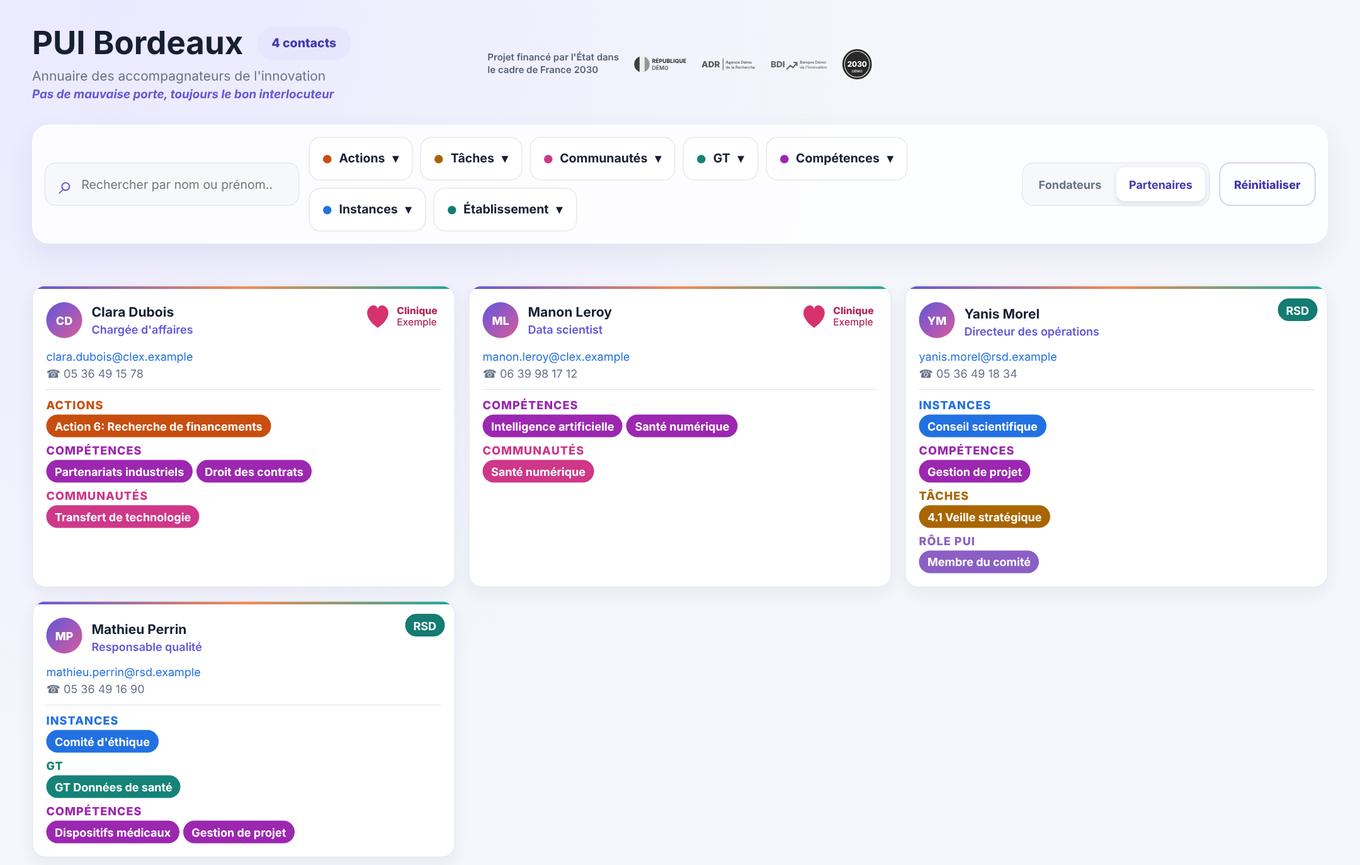
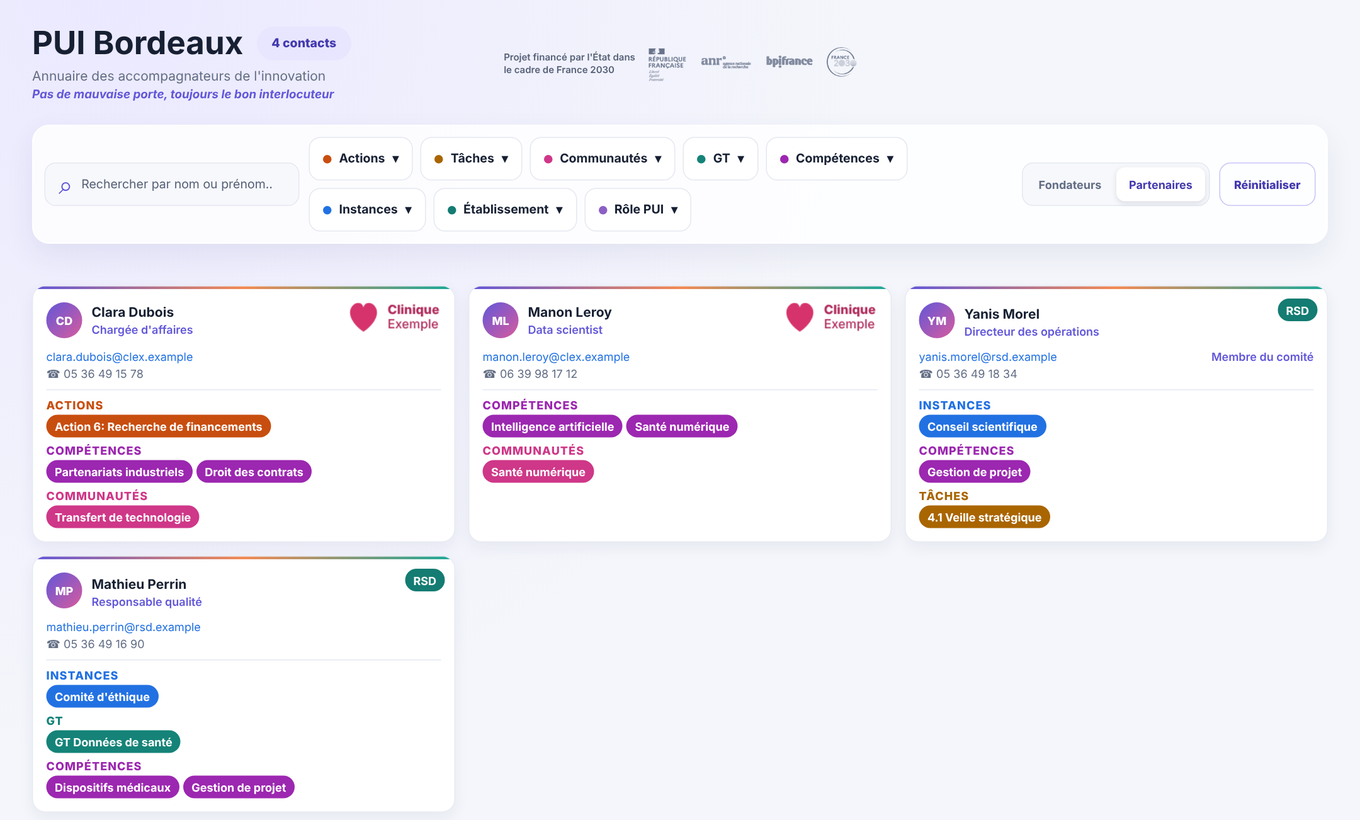
Documentation : captures régénérées sur la 1.28.x, légendes à jour, ligne de version masquée sur le bandeau
Claude-Session: https://claude.ai/code/session_01V8eFYu72vJnSWz9EzDE4xP

diff --git a/docs/developpeurs.md b/docs/developpeurs.md
@@ -4,7 +4,7 @@ Cette page explique comment le widget est construit et comment le modifier sans 
 
 Pages liées : [README](../README.md) (présentation et installation), [guide utilisateur](utilisateurs.md), [sécurité](securite.md), [maintenance](maintenance.md).
 
-> **Cette page décrit la version 1.28.3** : le widget lit la table `BDD` (1.8.0), range les compétences par domaine (un filtre « Domaines » en 1.9.0, intégré depuis au menu Compétences, 1.13.0), s'adapte à la largeur de son cadre (1.9.1), n'affiche que les personnes qui ont accepté d'apparaître (1.10.0), laisse la personne connectée choisir d'apparaître ou non, « Ma présence » (1.11.0), puis modifier sa fiche après une relecture de la carte avant et après (1.12.0), puis affiche les logos des établissements et des fondateurs, lus comme des pièces jointes du document, dans un en-tête et un bandeau du bas remaniés (1.14.0 ; depuis la 1.21.0, les financeurs sont deux images fixes du dépôt). Depuis la 1.15.0, un administrateur allume un « mode admin » qui lui permet de modifier la fiche de toute personne affichée, adresse e-mail et établissement compris, dans une fenêtre qui suit la maquette validée. Depuis la 1.16.0, le menu Tâches range les tâches par action d'après leur numéro. Depuis la 1.17.0, un **responsable d'établissement** modifie la fiche de son établissement (logo, nom complet, visibilité, liste des responsables) dans une autre fenêtre de la maquette, et le widget **envoie lui-même** le fichier du logo à Grist. Depuis la 1.17.1, tout le texte des cartes fait 12 px au moins et les pastilles 24 px de haut ; depuis la 1.17.2, dans un cadre étroit, le texte du bandeau « Ma présence » garde 200 px au moins et l'interrupteur passe dessous. Depuis la 1.19.0, la **photo de profil** d'une personne, une pièce jointe de la colonne `Avatar` de `BDD`, remplace ses initiales sur les cartes : elle l'ajoute, la change ou la retire dans la fenêtre de modification de sa fiche, et le widget envoie de la même façon le fichier à Grist. Depuis la 1.18.0, une personne dont l'adresse ne figure dans aucune fiche **crée elle-même sa fiche** (une ligne ajoutée à `BDD`, après une relecture) et peut choisir l'adresse e-mail que sa carte affiche (`email_affiche`, colonne facultative). Depuis la 1.20.0, le widget **crée lui-même la table-sonde** `Annuaire_Sonde` quand elle manque : c'est la seule table qu'il crée. Depuis la 1.22.0, les filtres, les cartes et les fenêtres ne lisent que les libellés « corrigés » ; depuis la 1.24.0, un huitième filtre, « Rôle PUI » ; depuis la 1.25.0, la création se publie d'un clic (« Publier ma fiche ») et chaque liste de choix a une recherche, que la 1.28.0 range dans une liste déroulante pour l'établissement et le rôle. Depuis la 1.26.0, le rôle d'une personne dans une tâche (`Taches_role`, colonne facultative) s'écrit au survol de l'étiquette de la tâche. Depuis la 1.27.0, la colonne `perimetre` n'est plus lue. Depuis la 1.28.1, chaque logo est chargé une seule fois, à l'abri des redessins de l'annuaire, et la 1.28.2 fait dire à la console pourquoi Grist refuse un logo (le plus souvent une règle d'accès). Depuis la 1.28.3, l'audit exhaustif relancé le 19 octobre 2026 corrige l'annuaire par lots (le CHANGELOG les décrit) : le premier fait qu'un libellé comme « constructor » ne casse plus rien (`ownValue()`). Ces modifications s'appliquent directement : il n'y a ni validation par un administrateur ni historique tenu par le widget. Ce qui n'est pas encore là est résumé dans [Chantiers en cours](#chantiers-en-cours).
+> **Cette page décrit la version 1.28.4** : le widget lit la table `BDD` (1.8.0), range les compétences par domaine (un filtre « Domaines » en 1.9.0, intégré depuis au menu Compétences, 1.13.0), s'adapte à la largeur de son cadre (1.9.1), n'affiche que les personnes qui ont accepté d'apparaître (1.10.0), laisse la personne connectée choisir d'apparaître ou non, « Ma présence » (1.11.0), puis modifier sa fiche après une relecture de la carte avant et après (1.12.0), puis affiche les logos des établissements et des fondateurs, lus comme des pièces jointes du document, dans un en-tête et un bandeau du bas remaniés (1.14.0 ; depuis la 1.21.0, les financeurs sont deux images fixes du dépôt). Depuis la 1.15.0, un administrateur allume un « mode admin » qui lui permet de modifier la fiche de toute personne affichée, adresse e-mail et établissement compris, dans une fenêtre qui suit la maquette validée. Depuis la 1.16.0, le menu Tâches range les tâches par action d'après leur numéro. Depuis la 1.17.0, un **responsable d'établissement** modifie la fiche de son établissement (logo, nom complet, visibilité, liste des responsables) dans une autre fenêtre de la maquette, et le widget **envoie lui-même** le fichier du logo à Grist. Depuis la 1.17.1, tout le texte des cartes fait 12 px au moins et les pastilles 24 px de haut ; depuis la 1.17.2, dans un cadre étroit, le texte du bandeau « Ma présence » garde 200 px au moins et l'interrupteur passe dessous. Depuis la 1.19.0, la **photo de profil** d'une personne, une pièce jointe de la colonne `Avatar` de `BDD`, remplace ses initiales sur les cartes : elle l'ajoute, la change ou la retire dans la fenêtre de modification de sa fiche, et le widget envoie de la même façon le fichier à Grist. Depuis la 1.18.0, une personne dont l'adresse ne figure dans aucune fiche **crée elle-même sa fiche** (une ligne ajoutée à `BDD`, après une relecture) et peut choisir l'adresse e-mail que sa carte affiche (`email_affiche`, colonne facultative). Depuis la 1.20.0, le widget **crée lui-même la table-sonde** `Annuaire_Sonde` quand elle manque : c'est la seule table qu'il crée. Depuis la 1.22.0, les filtres, les cartes et les fenêtres ne lisent que les libellés « corrigés » ; depuis la 1.24.0, un huitième filtre, « Rôle PUI » ; depuis la 1.25.0, la création se publie d'un clic (« Publier ma fiche ») et chaque liste de choix a une recherche, que la 1.28.0 range dans une liste déroulante pour l'établissement et le rôle. Depuis la 1.26.0, le rôle d'une personne dans une tâche (`Taches_role`, colonne facultative) s'écrit au survol de l'étiquette de la tâche. Depuis la 1.27.0, la colonne `perimetre` n'est plus lue. Depuis la 1.28.1, chaque logo est chargé une seule fois, à l'abri des redessins de l'annuaire, et la 1.28.2 fait dire à la console pourquoi Grist refuse un logo (le plus souvent une règle d'accès). Depuis la 1.28.3, l'audit exhaustif relancé le 19 octobre 2026 corrige l'annuaire par lots (le CHANGELOG les décrit) : le premier fait qu'un libellé comme « constructor » ne casse plus rien (`ownValue()`). La 1.28.4 donne au dépôt une licence (GNU GPL version 3 ou ultérieure, fichier `LICENSE`) et une politique de sécurité (`SECURITY.md`), sans changer le code. Ces modifications s'appliquent directement : il n'y a ni validation par un administrateur ni historique tenu par le widget. Ce qui n'est pas encore là est résumé dans [Chantiers en cours](#chantiers-en-cours).
 
 ## Sommaire
 
@@ -63,7 +63,7 @@ flowchart LR
 | `grist-plugin-api.js` | API de widget de Grist. `index.html` la charge depuis `docs.getgrist.com`, sans version figée | `index.html` |
 | GitHub Actions | Exécute `node --test` à chaque pull request et à chaque push sur `main` | `.github/workflows/tests.yml` |
 
-Ce que le widget fait, dans la version 1.28.3 :
+Ce que le widget fait, dans la version 1.28.4 :
 
 - il **lit** les tables du document Grist : neuf lectures `fetchTable` par chargement de l'annuaire (`BDD` et ses huit tables de référence) et, pour savoir qui est connecté, la liste des tables (`listTables`) puis la table-sonde. Quand une personne prépare la relecture d'une modification ou de la création de sa fiche, il relit aussi `BDD` (puis une dernière fois juste avant d'écrire) et lit les tables de métadonnées `_grist_Tables` et `_grist_Tables_column` (`schema.js`). Quand un responsable ouvre la fiche de son établissement, il relit `Etablissements` et `ACL` (`etablissement-save.js`). Pour afficher les logos et les photos de profil, il demande à Grist un **jeton d'accès en lecture seule** (`getAccessToken`, dans `attachments.js`) : ce sont les images, demandées par le navigateur, qui le portent (voir [Habillage](#habillage--logos-et-pièces-jointes)) ;
 - il **écrit** dans cinq cas seulement, toujours à l'initiative d'un chargement ou d'un clic, jamais en tâche de fond :
@@ -938,6 +938,7 @@ npx playwright install chromium         # ou CHROMIUM_PATH=/chemin/vers/chromium
 | `tests/responsive.test.mjs` | Le même `index.html` de 280 à 1920px de large, sur un jeu de données chargé (`tests/fixtures-responsive.mjs`) : pas de défilement horizontal, texte contenu dans les cartes, colonnes, barre d'outils, menus de filtres dans le cadre (dont les menus Compétences et Tâches dépliés, et un libellé de compétence ou d'action au nom très long), cibles tactiles, taille du texte des cartes (12 px au moins à toute largeur), pastilles de 24 px de haut, petites cibles isolées |
 | `tests/accessibility.test.mjs` | Le clavier et le lecteur d'écran : le champ de recherche nommé (et son nom reprend le texte visible), aucun contrôle sans nom dans l'arbre d'accessibilité, parcours complet à la tabulation (anneau visible, plein, de 2 px et de 3:1 au moins, page puis menu ouvert), pastilles, titres de groupe et lien e-mail d'une carte mesurés sur la page rendue (4,5:1 au moins), piste et curseur de l'interrupteur de présence mesurés eux aussi (3:1 au moins, éteint et allumé), en contraste forcé émulé (bordure, curseur distinct de la piste, états différents, curseur centré) et sans transition quand on réduit les animations ; sans navigateur, les rapports de contraste de référence, la garde sur `outline: 0` dans les feuilles de style, le contraste de chaque couleur de catégorie et du lien e-mail, celui de la piste et du curseur lus dans `style.css`, le gris des textes secondaires sur chacun des fonds clairs où il se pose, la case à cocher dessinée par la feuille de style et la garde sur `index.html` (aucun `aria-label` sur un élément sans rôle). Sur la carte de la personne connectée : « Votre fiche » et les boutons « Modifier » (le sien et celui de son établissement) à 12 px, ces boutons à 24 px de haut, le lien e-mail à l'écart. Les contrastes passent par `tests/support/contrast.mjs`, les tailles par `tests/support/card-metrics.mjs` |
 | `tests/docs.test.mjs` | La documentation ne se périme pas : liens, noms de fonctions cités, jeu de données fictif et personnes de démonstration, serveur de démonstration, schéma des imports, préfixes de la console, messages du guide cités, affirmations de sécurité (aucune requête réseau hors l'envoi d'un logo, dont les protections sont vérifiées ; aucun stockage ; méthodes de l'API Grist employées) |
+| `tests/license.test.mjs` | La licence et la politique de sécurité : `LICENSE` est le texte officiel de la GNU GPL version 3 (empreinte vérifiée), le README la déclare et renvoie vers `LICENSE`, `SECURITY.md` dit où signaler un problème sans issue publique ni adresse personnelle |
 
 - **Version de Node.** Le dépôt n'a pas de `package.json` : Node ne reconnaît les modules ES écrits en `.js` que grâce à la détection automatique de la syntaxe, activée par défaut depuis Node 20.19 et 22.7. En dessous (Node 18, 21, 22.6…), les tests échouent avec « Named export … not found » : c'est l'environnement qui est en cause, pas le code. Le serveur de démonstration, en `.mjs`, démarre dès Node 18.
 - Les tests unitaires n'ont aucune dépendance. `tests/e2e.test.mjs`, `tests/e2e-taches.test.mjs`, `tests/e2e-task-roles.test.mjs`, `tests/e2e-profile.test.mjs`, `tests/e2e-etablissement.test.mjs`, `tests/e2e-avatar.test.mjs`, `tests/e2e-upload-cors.test.mjs`, `tests/responsive.test.mjs`, `tests/branding-e2e.test.mjs`, `tests/logos-preload-e2e.test.mjs`, `tests/branding-layout.test.mjs` et, pour onze de ses dix-neuf tests, `tests/accessibility.test.mjs` ont besoin de Playwright et de Chromium (`tests/support/browser.mjs` sert à tous sauf `tests/responsive.test.mjs` et `tests/branding-layout.test.mjs`, qui lancent Chromium eux-mêmes) ; sans eux leurs scénarios sont ignorés et `node --test` reste vert. La CI définit `REQUIRE_E2E=1` : un navigateur absent y est un échec, pas un « tout vert » sur des tests ignorés.
@@ -987,7 +988,7 @@ node docs/demo/capturer.mjs                    # réécrit docs/images/*.png
 Règles :
 
 - **Rien de réel dans le dépôt.** Les personnes, les établissements et leurs logos (des dessins inventés) sont inventés, les adresses se terminent par `.example` (domaine réservé à la documentation, RFC 2606) et les numéros appartiennent au plan réservé à la fiction (`05 36 49 xx xx`, `06 39 98 xx xx`, décision ARCEP n° 2018-0881). `tests/docs.test.mjs` le vérifie.
-- Après toute modification de l'interface, relancer `docs/demo/capturer.mjs`, regarder les images et les committer avec le changement.
+- Après toute modification de l'interface, relancer `docs/demo/capturer.mjs`, regarder les images et les committer avec le changement. Les captures ne portent aucun numéro de version : la ligne « Version … » du bas de page est masquée sur celle du bandeau, pour qu'une capture ne se périme pas à chaque version.
 - Deux captures dépendent de la hauteur des cartes (texte de 12 px, 1.17.1). `docs/images/carte-anatomie.png` demande une fenêtre de 3 600 px : la carte de Camille Rousseau est loin dans la liste (cartes triées par nom) et ses repères sont fixés à l'écran. `docs/images/modifier-fiche-relecture.png` lève le plafond de 900 px de la fenêtre (`dialogs.css`) le temps de la capture, parce que la relecture le dépasse : sur un écran réel, son corps défile. Si une capture échoue avec « Clipped area is either empty or outside the resulting image », la fenêtre est trop basse pour la zone demandée.
 - Quand la structure Grist change, adapter `docs/demo/donnees-fictives.mjs` : `tests/docs.test.mjs` échoue tant que le jeu fictif n'est pas lu sans erreur par le vrai `loadDirectory()`.
 - Dans le jeu fictif, tout le monde a accepté d'apparaître (`Accepte_apparaitre`) sauf une personne qui a refusé : seuls les établissements décident des autres. `PERSONNES_DEMO` désigne une personne qui apparaît, une d'un établissement partenaire, une qui a refusé, une qui a accepté mais reste masquée (son établissement n'est pas validé), un administrateur et une responsable d'établissement (Léa Fontaine, du CHD) : ce sont elles que photographient les captures « Ma présence » (les quatre captures de la modification d'une fiche, le bouton, le formulaire, la relecture et la confirmation, sont celles de la personne qui apparaît, les trois dernières montrant la même modification ; les deux captures du mode admin sont celles de l'administrateur, et celle de la fiche d'un établissement celle de la responsable), et `tests/docs.test.mjs` vérifie que le bandeau dit pour chacune ce que le guide annonce.
@@ -1043,7 +1044,7 @@ Règles :
 
 ## Chantiers en cours
 
-Au 19 octobre 2026, `main` est en version 1.28.3 (les 1.28.3 et suivantes sont les lots de l'audit exhaustif relancé le 19 octobre 2026, la 1.28.2 fait dire à la console pourquoi Grist refuse un logo, la 1.28.1 charge chaque logo une seule fois, la 1.28.0 est la liste déroulante à recherche, les 1.27.0 à 1.27.3 retirent `perimetre` de l'affichage et reprennent le rôle PUI, les logos des cartes et le menu Établissement, la 1.26.0 est le rôle dans une tâche, la 1.25.0 « Publier ma fiche », la 1.24.0 le filtre Rôle PUI, la 1.22.0 les libellés corrigés seuls, les 1.21.0 à 1.21.7 les financeurs fixes et des corrections (envoi d'un fichier, sonde, logos), la 1.20.0 la table-sonde créée par le widget, la 1.19.0 la photo de profil, la 1.18.0 la fiche créée par la personne et l'e-mail affiché, la 1.17.2 range le bandeau « Ma présence » dans un cadre étroit, la 1.17.1 donne au texte des cartes 12 px au moins, la 1.17.0 est la fiche d'un établissement ; la 1.16.0 range les tâches par action, la 1.16.1 trie les cartes par nom, la 1.16.2 fonce les pastilles et la 1.16.3 rend l'interrupteur de présence accessible ; la 1.15.0 est le mode admin, la 1.14.1 le premier des six « gains rapides » de l'audit UI/UX, un par version, dont la 1.17.2 est le dernier ; la 1.14.0 est l'habillage, la 1.13.0 le menu Compétences par domaine). Cette documentation la décrit et sera mise à jour à chaque fusion.
+Au 19 octobre 2026, `main` est en version 1.28.4 (les 1.28.3 et suivantes sont les lots de l'audit exhaustif relancé le 19 octobre 2026, dont la 1.28.4, la licence ; la 1.28.2 fait dire à la console pourquoi Grist refuse un logo, la 1.28.1 charge chaque logo une seule fois, la 1.28.0 est la liste déroulante à recherche, les 1.27.0 à 1.27.3 retirent `perimetre` de l'affichage et reprennent le rôle PUI, les logos des cartes et le menu Établissement, la 1.26.0 est le rôle dans une tâche, la 1.25.0 « Publier ma fiche », la 1.24.0 le filtre Rôle PUI, la 1.22.0 les libellés corrigés seuls, les 1.21.0 à 1.21.7 les financeurs fixes et des corrections (envoi d'un fichier, sonde, logos), la 1.20.0 la table-sonde créée par le widget, la 1.19.0 la photo de profil, la 1.18.0 la fiche créée par la personne et l'e-mail affiché, la 1.17.2 range le bandeau « Ma présence » dans un cadre étroit, la 1.17.1 donne au texte des cartes 12 px au moins, la 1.17.0 est la fiche d'un établissement ; la 1.16.0 range les tâches par action, la 1.16.1 trie les cartes par nom, la 1.16.2 fonce les pastilles et la 1.16.3 rend l'interrupteur de présence accessible ; la 1.15.0 est le mode admin, la 1.14.1 le premier des six « gains rapides » de l'audit UI/UX, un par version, dont la 1.17.2 est le dernier ; la 1.14.0 est l'habillage, la 1.13.0 le menu Compétences par domaine). Cette documentation la décrit et sera mise à jour à chaque fusion.
 
 **Déjà fusionné**
 
@@ -1067,7 +1068,7 @@ Au 19 octobre 2026, `main` est en version 1.28.3 (les 1.28.3 et suivantes sont l
 17. **Un affichage sans `perimetre`, des listes à recherche** (1.25.0, 1.27.0, 1.27.3, 1.28.0) : le widget ne lit ni n'écrit plus `perimetre`, le menu Établissement ne propose que les établissements qui peuvent s'afficher (selon les interrupteurs Fondateurs et Partenaires), et l'établissement et le rôle des fenêtres sont des listes déroulantes à recherche. Voir [Règles d'affichage](#règles-daffichage) et [Accessibilité](#accessibilité).
 18. **Logos : toujours affichés, chargés une seule fois, un refus expliqué** (1.27.2, 1.28.1, 1.28.2) : le logo d'une carte ne dépend plus de la lecture de ses pixels, chaque logo est chargé à part une seule fois, et la console dit que Grist le refuse le plus souvent par une règle d'accès, avec le remède. Voir [Les images](#les-images-branding-uijs).
 
-**Pas encore dans la 1.28.3**
+**Pas encore dans la 1.28.4**
 
 Ce qui suit n'est pas dans le code, et aucune date n'est promise.
 

diff --git a/docs/securite.md b/docs/securite.md
@@ -1,6 +1,6 @@
 # Sécurité et confidentialité
 
-Cette page répond aux questions qu'on se pose avant de mettre l'annuaire entre les mains d'un public : qu'est-ce que le widget peut lire et faire, où vont les données, quels sont les risques restants et comment les réduire. Elle décrit la **version 1.28.3**. Le widget écrit dans le document depuis la 1.11.0 (la table-sonde, le choix de présence) ; la 1.12.0 y ajoute la **modification d'une fiche**, directe, sans validation par un administrateur et sans historique tenu par le widget ; la 1.14.0 ajoute l'**affichage des logos**, des pièces jointes du document que le navigateur télécharge chez Grist avec un jeton d'accès en lecture seule (voir [Les logos et le jeton d'accès](#les-logos-et-le-jeton-daccès-aux-pièces-jointes)) ; la 1.15.0 donne aux administrateurs un **mode admin**, qui leur permet de changer aussi l'**e-mail** et l'**établissement** d'une autre personne ; la 1.16.0, qui range les tâches par action, ne change ni ce que le widget lit ni ce qu'il écrit ; la 1.17.0 donne aux **responsables d'un établissement** la **fiche de leur établissement** : ils en changent le nom, la visibilité, la liste des responsables (des lignes de la table `ACL`) et le **logo**, que le widget **envoie lui-même à Grist** avec un jeton d'accès en écriture, la seule requête réseau que son code émet (voir [L'envoi d'un fichier et le jeton en écriture](#lenvoi-dun-fichier-et-le-jeton-en-écriture)) ; les 1.17.1 et 1.17.2 ne changent que la mise en page, ni ce que le widget lit ni ce qu'il écrit ; la 1.19.0 ajoute la **photo de profil** : chaque personne ajoute, remplace ou retire sa photo (colonne `Avatar` de `BDD`), que le widget redessine puis envoie à Grist **par le même envoi et le même jeton en écriture que le logo**, ce qui élargit ce jeton à **toute personne qui valide une photo**, pas seulement aux responsables d'établissement. Les versions 1.18.0 à 1.28.2 ajoutent deux écritures : une personne que l'annuaire reconnaît mais qui n'a pas de fiche la **crée** elle-même (1.18.0 : une ligne ajoutée à `BDD`, à l'adresse de son compte), et le widget **crée la table-sonde** `Annuaire_Sonde` quand elle manque (1.20.0 : la seule table qu'il crée). Côté lecture et réseau, elles retirent la lecture d'une table `Financeurs` (1.21.0 : deux images fixes du widget la remplacent) et le recours à `perimetre` (1.27.0), lisent le rôle de la personne dans une tâche (1.26.0 : colonne facultative `Taches_role`), ajoutent à l'envoi d'un fichier l'en-tête `X-Requested-With` que Grist exige (1.21.5) et redemandent chaque logo à Grist d'une autre manière pour le fiabiliser (1.27.2 et 1.28.1, voir [Les logos et le jeton d'accès](#les-logos-et-le-jeton-daccès-aux-pièces-jointes)) ; les autres changements (filtres, listes déroulantes, mise en page) ne touchent ni les tables que le widget lit ni ce qu'il écrit. Plus que jamais, seules les règles d'accès de Grist protègent vraiment les données.
+Cette page répond aux questions qu'on se pose avant de mettre l'annuaire entre les mains d'un public : qu'est-ce que le widget peut lire et faire, où vont les données, quels sont les risques restants et comment les réduire. Elle décrit la **version 1.28.4**. Le widget écrit dans le document depuis la 1.11.0 (la table-sonde, le choix de présence) ; la 1.12.0 y ajoute la **modification d'une fiche**, directe, sans validation par un administrateur et sans historique tenu par le widget ; la 1.14.0 ajoute l'**affichage des logos**, des pièces jointes du document que le navigateur télécharge chez Grist avec un jeton d'accès en lecture seule (voir [Les logos et le jeton d'accès](#les-logos-et-le-jeton-daccès-aux-pièces-jointes)) ; la 1.15.0 donne aux administrateurs un **mode admin**, qui leur permet de changer aussi l'**e-mail** et l'**établissement** d'une autre personne ; la 1.16.0, qui range les tâches par action, ne change ni ce que le widget lit ni ce qu'il écrit ; la 1.17.0 donne aux **responsables d'un établissement** la **fiche de leur établissement** : ils en changent le nom, la visibilité, la liste des responsables (des lignes de la table `ACL`) et le **logo**, que le widget **envoie lui-même à Grist** avec un jeton d'accès en écriture, la seule requête réseau que son code émet (voir [L'envoi d'un fichier et le jeton en écriture](#lenvoi-dun-fichier-et-le-jeton-en-écriture)) ; les 1.17.1 et 1.17.2 ne changent que la mise en page, ni ce que le widget lit ni ce qu'il écrit ; la 1.19.0 ajoute la **photo de profil** : chaque personne ajoute, remplace ou retire sa photo (colonne `Avatar` de `BDD`), que le widget redessine puis envoie à Grist **par le même envoi et le même jeton en écriture que le logo**, ce qui élargit ce jeton à **toute personne qui valide une photo**, pas seulement aux responsables d'établissement. Les versions 1.18.0 à 1.28.2 ajoutent deux écritures : une personne que l'annuaire reconnaît mais qui n'a pas de fiche la **crée** elle-même (1.18.0 : une ligne ajoutée à `BDD`, à l'adresse de son compte), et le widget **crée la table-sonde** `Annuaire_Sonde` quand elle manque (1.20.0 : la seule table qu'il crée). Côté lecture et réseau, elles retirent la lecture d'une table `Financeurs` (1.21.0 : deux images fixes du widget la remplacent) et le recours à `perimetre` (1.27.0), lisent le rôle de la personne dans une tâche (1.26.0 : colonne facultative `Taches_role`), ajoutent à l'envoi d'un fichier l'en-tête `X-Requested-With` que Grist exige (1.21.5) et redemandent chaque logo à Grist d'une autre manière pour le fiabiliser (1.27.2 et 1.28.1, voir [Les logos et le jeton d'accès](#les-logos-et-le-jeton-daccès-aux-pièces-jointes)) ; les autres changements (filtres, listes déroulantes, mise en page, audit exhaustif et licence des 1.28.3 et 1.28.4) ne touchent ni les tables que le widget lit ni ce qu'il écrit. Plus que jamais, seules les règles d'accès de Grist protègent vraiment les données.
 
 Pages liées : [README](../README.md), [documentation développeur](developpeurs.md), [maintenance](maintenance.md), [guide utilisateur](utilisateurs.md).
 
@@ -22,7 +22,7 @@ Pages liées : [README](../README.md), [documentation développeur](developpeurs
 
 ## Résumé
 
-| Question | Réponse pour la version 1.28.3 |
+| Question | Réponse pour la version 1.28.4 |
 |---|---|
 | Le widget écrit-il dans le document Grist ? | **Oui, dans cinq cas seulement.** (1) À chaque chargement, et de nouveau après un changement de responsables (pour relire les droits de la personne), il ajoute puis supprime une ligne de la table-sonde `Annuaire_Sonde` pour savoir qui est connecté (sauf pour un compte Lecteur) ; depuis la 1.20.0, **si cette table manque, il la crée d'abord**, en une seule action, avec ses trois colonnes de données (la seule table qu'il crée : Grist le refuse à un compte sans droit sur la structure du document). (2) Quand la personne connectée actionne l'interrupteur « Ma présence », il coche ou décoche `Accepte_apparaitre` sur sa propre fiche de `BDD`. (3) Depuis la 1.12.0, quand une personne valide la modification d'une fiche (la sienne, ou, pour un administrateur qui a allumé le mode admin, n'importe quelle carte affichée), il met à jour **une** ligne de `BDD`, en une seule action atomique, avec détection d'un changement concurrent mais **sans validation par un administrateur et sans historique tenu par le widget** ; depuis la 1.19.0, cette ligne peut porter la **photo de profil** (colonne `Avatar`), dont le fichier est d'abord envoyé dans les pièces jointes du document. (4) Depuis la 1.18.0, quand une personne que l'annuaire reconnaît mais dont l'adresse ne figure dans aucune fiche clique sur « Publier ma fiche » (ou « Créer ma fiche ») après avoir relu sa fiche, il **ajoute une ligne** à `BDD`, en une seule action : l'adresse de son compte, l'établissement qu'elle a choisi, son choix d'apparaître (`Accepte_apparaitre`) et ce qu'elle a rempli, jamais `perimetre` ni la photo ; il relit d'abord `BDD` et n'écrit rien si une fiche porte déjà cette adresse. (5) Depuis la 1.17.0, quand un **responsable d'établissement** enregistre la fiche de son établissement, il met à jour la ligne d'`Etablissements` (`nom_complet`, `ok_pour_apparaitre`, `logo`) et, s'il change les responsables, ajoute, modifie ou supprime des lignes de **`ACL`** (colonnes `email` et `Responsable_de_l_Etablissement`, **jamais `admin`**), le tout en une seule action atomique, après avoir envoyé le fichier d'un nouveau logo dans les pièces jointes du document. Il ne crée aucune autre table que la table-sonde, ne renomme ni ne supprime jamais de colonne, ne supprime jamais de fiche de `BDD` et n'en crée qu'une, la sienne (cas 4) ; la seule table qu'il supprime est le doublon numéroté de la sonde qu'il vient de créer au même instant qu'une autre personne. Hors la création de sa propre fiche, il n'écrit `email` et `Etablissement` que pour un administrateur en mode admin qui modifie la fiche **d'une autre personne** (depuis la 1.15.0), et jamais `perimetre`. L'affichage des logos (1.14.0) et des photos (1.19.0) n'écrit rien. Voir [Écritures et règles d'accès](#écritures-et-règles-daccès) |
 | Où vont les données qu'il lit ? | **Nulle part ailleurs que dans la page affichée** : le code ne contacte aucun service tiers, ne stocke rien dans le navigateur (ni cookie, ni stockage local) et ne communique avec aucun service de statistiques. Deux types de requêtes partent de la page vers l'instance Grist **uniquement** : depuis la 1.14.0, le navigateur télécharge les logos, et depuis la 1.19.0 les photos de profil (des pièces jointes du document), avec un jeton d'accès en lecture seule dans l'adresse de chaque image ; depuis la 1.17.0, le code envoie le fichier d'un nouveau logo, et depuis la 1.19.0 celui d'une photo de profil (`upload.js`, **la seule requête réseau que le code émet lui-même**, un `fetch` unique) avec un jeton d'accès en **écriture** demandé pour cet envoi et jeté ensuite. Voir [Les logos et le jeton d'accès](#les-logos-et-le-jeton-daccès-aux-pièces-jointes) et [L'envoi d'un fichier et le jeton en écriture](#lenvoi-dun-fichier-et-le-jeton-en-écriture) |
@@ -41,7 +41,7 @@ Pages liées : [README](../README.md), [documentation développeur](developpeurs
 
 ## Ce que le widget lit, écrit et envoie
 
-Vérifié dans le code de la version 1.28.3 :
+Vérifié dans le code de la version 1.28.4 :
 
 - **Lecture.** `loadDirectory()` appelle `docApi.fetchTable()` une fois par table de [`grist_structure.txt`](../grist_structure.txt) à chaque chargement (neuf tables : `BDD` et les huit tables de référence ; depuis la 1.21.0 aucune table de financeurs n'est lue, le visuel des financeurs est une image fixe du widget). `readIdentity()` lit en plus la liste des tables (`listTables`) puis la table-sonde, pour savoir qui est connecté. `createAttachments()` (`attachments.js`) demande à Grist, une fois par jeton, un **jeton d'accès en lecture seule** (`docApi.getAccessToken({ readOnly: true })`) pour que le navigateur puisse télécharger les logos et, depuis la 1.19.0, les photos de profil (cellules `Avatar` de `BDD`, lues par `avatarIdOf()`) : voir [Les logos et le jeton d'accès](#les-logos-et-le-jeton-daccès-aux-pièces-jointes). Pour la création de sa fiche (1.18.0), `checkCanCreate()` (`profile-save.js`) relit `BDD` à la relecture puis juste avant d'écrire : une fiche qui porte déjà l'adresse, ou une table sans colonne `email`, arrête tout. Pour une modification de fiche, `readFiche()` (`profile-save.js`) relit la table `BDD` au moment de la relecture puis juste avant d'écrire, et `readColumnTypes()` (`schema.js`) lit les métadonnées `_grist_Tables` et `_grist_Tables_column` pour connaître le type des colonnes de `BDD` : le widget n'en tire qu'une information, la forme (nombre ou texte) dans laquelle écrire un téléphone. Pour la fiche d'un établissement (1.17.0), `readEtablissement()` (`etablissement-save.js`) relit `Etablissements` puis `ACL` quand la fenêtre s'ouvre, `saveEtablissement()` les relit juste avant d'écrire (et, quand un logo est envoyé, une seconde fois après l'envoi), puis une dernière fois après l'écriture pour vérifier ce que Grist a gardé ; si `ACL` ne peut pas être lue (règle d'accès), la fiche s'ouvre sans la liste des responsables, qu'elle ne montre ni ne modifie.
 - **Écriture.** Cinq emplois de `docApi.applyUserActions()`, et cinq seulement :
@@ -260,4 +260,4 @@ Classées par ordre décroissant de rapport utilité/effort, les points 8 et 9 s
 
 ## Signaler un problème de sécurité
 
-Utilisez le signalement privé de vulnérabilités de GitHub (onglet Security du dépôt) s'il est activé ; sinon, contactez directement le propriétaire du dépôt (compte GitHub `lombre33`). Dans tous les cas, n'ouvrez pas d'*issue* publique, puisque le dépôt est public. Précisez la version (voir [`VERSION.md`](../VERSION.md)), ce que vous avez observé et, si possible, comment le reproduire avec le jeu de démonstration (`node docs/demo/serveur-demo.mjs`) et non avec des données réelles.
+Utilisez le signalement privé de vulnérabilités de GitHub (onglet Security du dépôt) s'il est activé ; sinon, contactez directement le propriétaire du dépôt (compte GitHub `lombre33`). Dans tous les cas, n'ouvrez pas d'*issue* publique, puisque le dépôt est public. Précisez la version (voir [`VERSION.md`](../VERSION.md)), ce que vous avez observé et, si possible, comment le reproduire avec le jeu de démonstration (`node docs/demo/serveur-demo.mjs`) et non avec des données réelles. Le fichier [`SECURITY.md`](../SECURITY.md), à la racine du dépôt (depuis la 1.28.4), donne la même consigne, là où GitHub présente la politique de sécurité d'un dépôt.

diff --git a/docs/maintenance.md b/docs/maintenance.md
@@ -1,6 +1,6 @@
 # Maintenance
 
-Cette page explique comment garder l'annuaire et le widget en bon état : qui fait quoi, comment renseigner et corriger les données dans Grist, comment diagnostiquer un problème, comment publier et revenir en arrière, et quelles sont les limites connues. Elle décrit la **version 1.19.0**.
+Cette page explique comment garder l'annuaire et le widget en bon état : qui fait quoi, comment renseigner et corriger les données dans Grist, comment diagnostiquer un problème, comment publier et revenir en arrière, et quelles sont les limites connues. Elle décrit la **version 1.28.4**.
 
 Pages liées : [README](../README.md), [guide utilisateur](utilisateurs.md), [documentation développeur](developpeurs.md), [sécurité](securite.md).
 
@@ -48,7 +48,7 @@ Une personne n'est affichée que si **toutes** les conditions suivantes sont vra
 
 Côté écran, les interrupteurs **Fondateurs** et **Partenaires** affinent ensuite l'affichage ([guide utilisateur](utilisateurs.md#fondateurs-et-partenaires)). Le schéma complet des règles est dans la [documentation développeur](developpeurs.md#règles-daffichage).
 
-Six précisions, à jour de la version 1.28.3 :
+Six précisions, à jour de la version 1.28.4 :
 
 - **Le périmètre ne décide plus de rien (1.27.0).** Jusqu'à la 1.26.0, une fiche devait aussi avoir au moins un périmètre (colonne `perimetre` de `BDD`) pour apparaître, et celle qu'une personne venait de créer restait donc masquée tant qu'un administrateur n'avait pas rempli la colonne. Le widget ne lit plus cette colonne : une fiche dont la personne a accepté d'apparaître et dont l'établissement est validé (fondateur ou partenaire) s'affiche, périmètre rempli ou non. La colonne peut rester dans le document, le widget l'ignore.
 - L'établissement vient de la référence `Etablissement`, résolue par identifiant de ligne. L'ancienne colonne calculée `Etablissement2` n'est plus utilisée depuis la 1.8.0, et deux lignes d'`Etablissements` de même acronyme ne se confondent plus.

diff --git a/TESTING.md b/TESTING.md
@@ -171,6 +171,9 @@ Sans dépendance, un fichier de tests par module :
   démonstration, phrases du guide utilisateur, schéma des imports, préfixes de la console et
   affirmations de la page de sécurité qui doivent suivre le code (méthodes de l'API Grist, une
   seule requête réseau et ses protections, aucun stockage). Sans navigateur.
+- `tests/license.test.mjs` — la licence : `LICENSE` est le texte officiel de la GNU GPL version 3
+  (empreinte vérifiée), le README la déclare et renvoie vers `LICENSE`, `SECURITY.md` dit où
+  signaler un problème sans issue publique ni adresse personnelle. Sans navigateur.
 
 Avec Playwright (`npm install --no-save playwright`, puis
 `npx playwright install chromium`), `tests/e2e.test.mjs` exécute en plus 75
